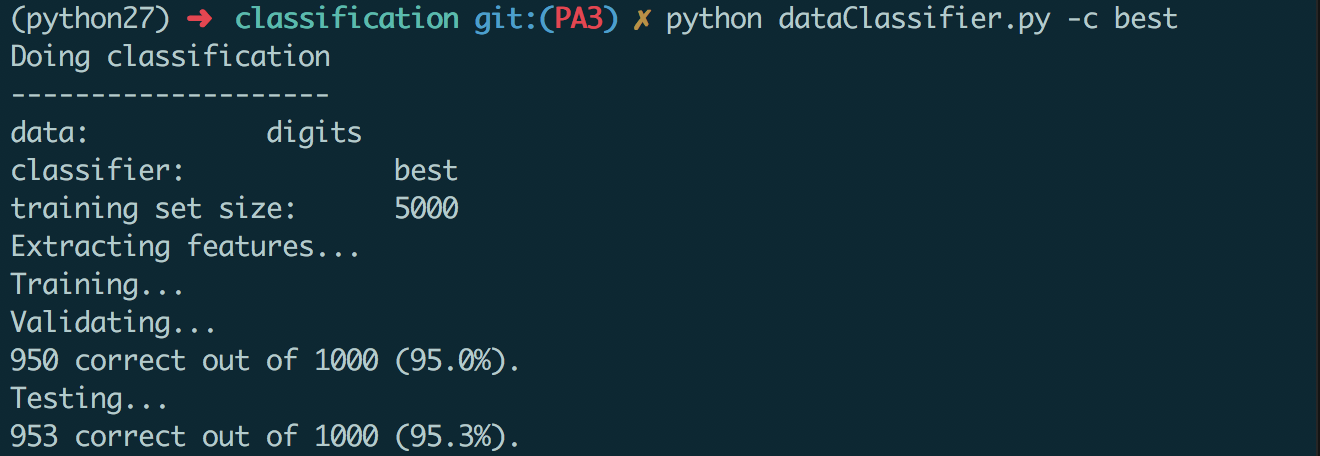
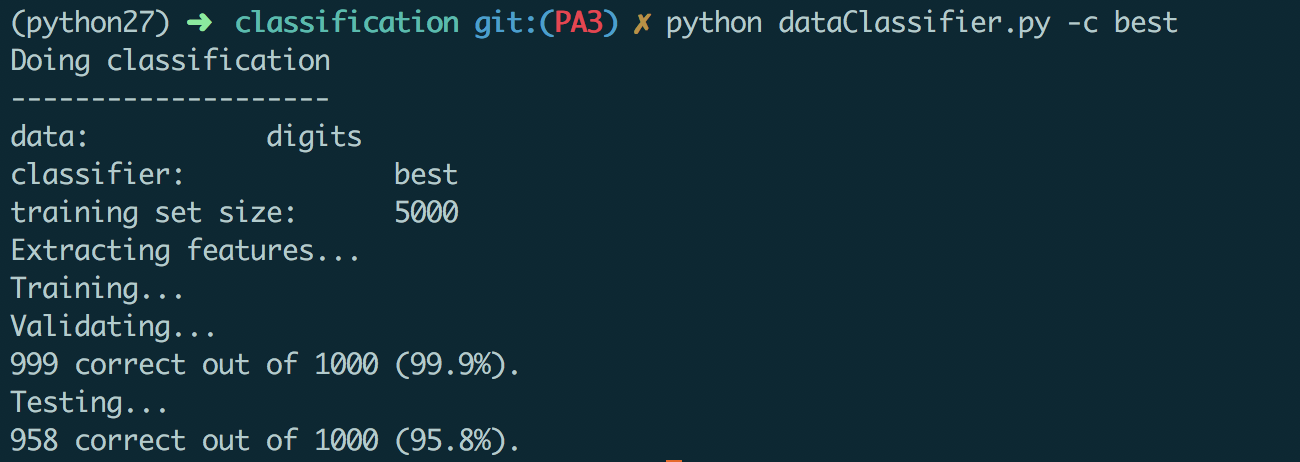
PA3

diff --git a/PA4/assignment_4/assignment_3.tex b/PA4/assignment_4/assignment_3.tex
@@ -247,9 +247,9 @@
 	\paragraph{}
 	这一问要求设计一个分类器，来实现良好的分类准确性，根据之前的分类效果来看，SVM具有较好的分类效果，因此这一问中继续采用scikit-learn的SVM作为分类器，主要目标是通过对超参数的调节实现较好的分类效果。
 	\paragraph{}
-	如果直接使用原始数据进行SVM分类，效果较差，因此考虑使用PCA进行特征提取降维，对降维之后的数据采用支持向量机进行分类。需要进行调整的超参数主要有PCA提取的特征数目，以及SVM中的想过超参数，经过多次测试$n\_components = 35, C=3, gamma=1/35.0$时整个模型有着较好的预测效果，测试的结果如图\ref{Better Classification Accuracy}，模型在测试集上的准确率为$95.8\%$。
+	如果直接使用原始数据进行SVM分类，效果较差，因此考虑使用PCA进行特征提取降维，对降维之后的数据采用支持向量机进行分类。需要进行调整的超参数主要有PCA提取的特征数目，以及SVM中的想过超参数，经过多次测试$n\_components = 35, C=100, gamma=0.015$时整个模型有着较好的预测效果，测试的结果如图\ref{Better Classification Accuracy}。
 	\paragraph{}
-	对于SVM的参数设定，如果设定的$C$值过大，那么模型对误分类的惩罚值过大，容易出现过拟合的现象，模型在验证集和测试集上的表现会很差。但是如果设定的值过小，则会出现特征不明确的现象，误分类比例较大，同样会造成表现差的现象。对于PCA提取特征数目的设定，如果设定的数目过低，那么提取出的特征无法准确描述该分类的特征，但是如果提取的数目过多，那么会造成对噪音的过滤不够完全，优化效果不够明显的现象。从最终测试得到的较优的参数设定以及测试结果来看，每个分类大致需要35个特征值就可以准确唯一描述，同时测试得到$C=100$的惩罚值设定并没有造成过拟合现象。
+	对于SVM的参数设定，如果设定的$C$值过大，那么模型对误分类的惩罚值过大，容易出现过拟合的现象，模型在验证集和测试集上的表现会很差。但是如果设定的值过小，则会出现特征不明确的现象，误分类比例较大，同样会造成表现差的现象。对于PCA提取特征数目的设定，如果设定的数目过低，那么提取出的特征无法准确描述该分类的特征，但是如果提取的数目过多，那么会造成对噪音的过滤不够完全，优化效果不够明显的现象。从最终测试得到的较优的参数设定以及测试结果来看，每个分类大致需要35个特征值就可以准确唯一描述，同时$C=100$的惩罚值设定并没有造成过拟合现象。
 \end{homeworkProblem}
 
 \end{document}

diff --git a/PA3/classification/classifiers.py b/PA3/classification/classifiers.py
@@ -303,8 +303,10 @@ class BestClassifier(ClassificationMethod):
         from sklearn.svm import SVC
         self.pca = PCA(n_components=self.compontNum, whiten=True)
         self.pca.fit(trainingData) 
+        trainingData = np.vstack((trainingData, validationData))
+        trainingLabels = np.hstack((trainingLabels, validationLabels))
         trainingData = self.pca.transform(trainingData)
-        self.sklearn_svm = SVC(C=100, gamma=0.015)
+        self.sklearn_svm = SVC(C=3, gamma=1/35.0)
         self.sklearn_svm.fit(trainingData, trainingLabels)
 
     

diff --git a/PA4/assignment_4/q_3.py b/PA4/assignment_4/q_3.py
@@ -1,0 +1,4 @@
+sklearn.svm.SVC(C=1.0, kernel='rbf', degree=3, gamma='auto', 
+        coef0=0.0, shrinking=True, probability=False,tol=0.001,
+        cache_size=200, class_weight=None, verbose=False, max_iter=-1,
+        decision_function_shape=None,random_state=None)
